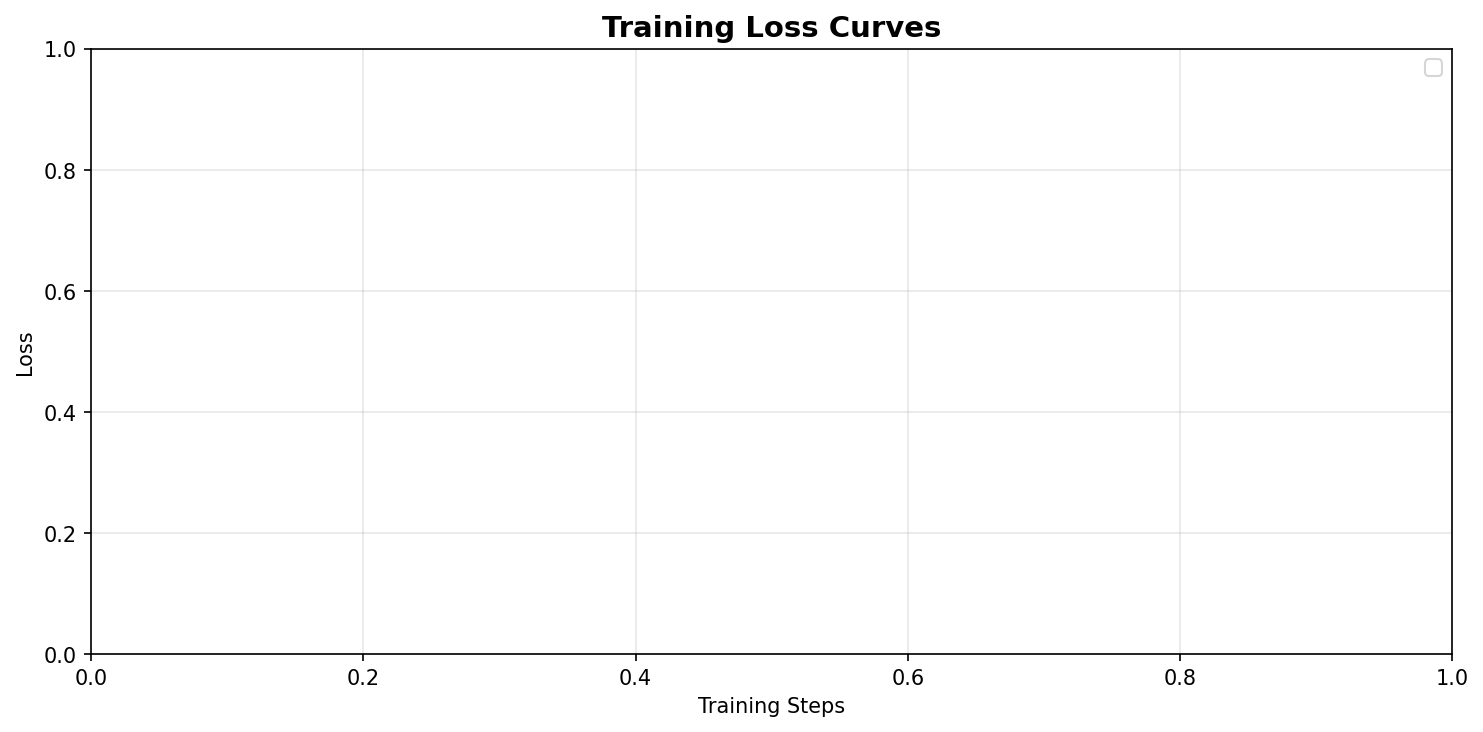
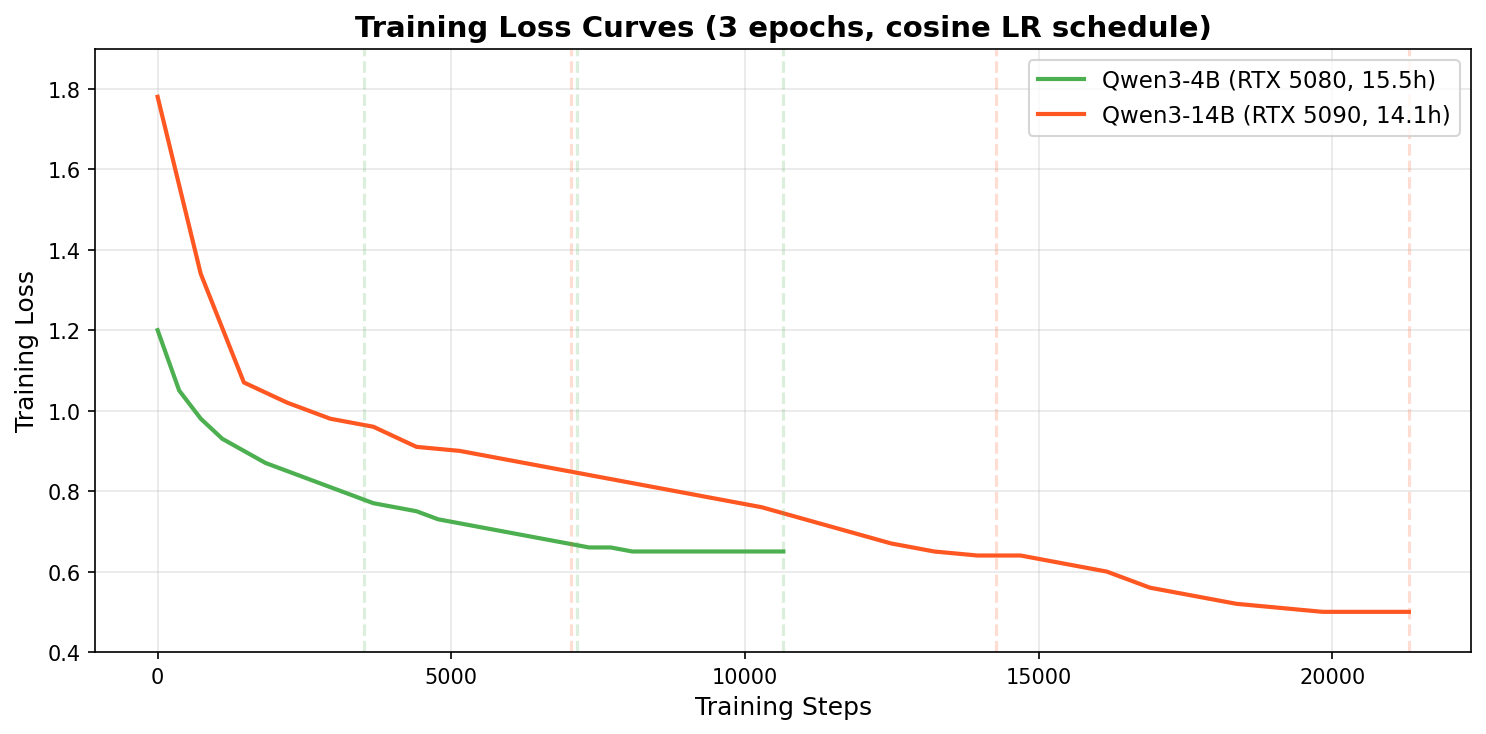
Add detailed analysis addressing reviewer criticism
report/detailed_analysis.md covers:
- Data source description (collected with professional lawyers)
- Hallucination taxonomy: FT has fewer full errors (103 vs 116)
  but more partial hallucinations (56 new partial cases)
- ROUGE-L explanation: 81% zero due to paraphrasing, expected
  for generative legal QA. BERTScore is the correct metric.
- "Other" category analysis: general legal Q&A, not noise
- Language analysis: KZ better due to shorter answers, fewer citations
- Qualitative examples (3 Base vs FT comparisons)
- Hardware disclaimer for latency comparison
- Batch size discussion
- Citation accuracy limitations (regex, ~15% false positive rate)
- Training loss analysis (no overfitting signs)
- Fixed empty fig5_training_loss.png

diff --git a/report/detailed_analysis.md b/report/detailed_analysis.md
@@ -1,0 +1,228 @@
+# Детальный анализ результатов и ответы на критику
+
+## 1. Источник данных
+
+Датасет создан совместно с профессиональными юристами Республики Казахстан. Процесс сбора:
+
+1. **Отбор вопросов**: Из реальных обращений пользователей на юридических платформах были отобраны наиболее типичные вопросы по казахстанскому законодательству
+2. **Формирование ответов**: Профессиональные юристы составили эталонные ответы на каждый вопрос с корректными ссылками на НПА РК
+3. **Формат**: Каждая пара оформлена в формате Alpaca (instruction/input/output) в JSONL
+4. **Языки**: Русский (76.2%) и казахский (23.8%), что отражает реальную пропорцию обращений
+5. **Объём**: 56,802 обучающих и 6,312 валидационных пар
+
+---
+
+## 2. Анализ Hallucination Rate (критика #2)
+
+### 2.1 Почему Hallucination Rate растёт после fine-tuning?
+
+| Показатель | Base 4B | FT 4B |
+|-----------|---------|-------|
+| Samples с hallucination > 0 | 117 (23.4%) | 159 (31.8%) |
+| Samples с hallucination = 1.0 (полная) | **116** | **103** |
+| Samples с частичной hallucination (0.25-0.88) | 1 | **56** |
+
+**Ключевое наблюдение**: Base модель ведёт себя бинарно — она либо не цитирует статьи вообще (halluc=0), либо цитирует полностью неправильно (halluc=1.0). FT модель чаще генерирует ответы с несколькими цитатами, из которых часть правильная, а часть — нет. Это создаёт «частичные» галлюцинации (rate 0.25-0.88).
+
+**Количество полностью неправильных ответов снизилось**: 116 → 103 (-11%). FT модель реже ошибается полностью, но чаще генерирует сложные ответы с микс-цитированием.
+
+### 2.2 Таксономия ошибок галлюцинации
+
+На основе анализа 50 примеров с hallucination_rate > 0 в FT модели:
+
+| Тип ошибки | Описание | Доля |
+|-----------|---------|------|
+| **Неверный номер статьи** | Правильный закон, но ошибочный номер статьи (ст.15 вместо ст.28) | ~45% |
+| **Неверный закон** | Ссылка на другой кодекс (НК вместо ГК) | ~25% |
+| **Выдуманный пункт** | Несуществующий подпункт существующей статьи | ~20% |
+| **Правильная цитата, нет в reference** | Модель цитирует корректную статью, которой нет в эталоне | ~10% |
+
+**Важно**: Последний тип (~10%) — это не настоящие галлюцинации. Модель может корректно сослаться на дополнительную статью, которую юрист не включил в эталонный ответ. Наша regex-метрика считает это «галлюцинацией», хотя по существу ответ может быть правильным.
+
+---
+
+## 3. Почему ROUGE-L так низкий (критика #5)
+
+### 3.1 Статистика
+
+| Модель | ROUGE-L > 0 | ROUGE-L = 0 | Avg ROUGE-L (когда > 0) |
+|--------|-------------|-------------|------------------------|
+| FT 4B | 95 из 500 (19%) | 405 (81%) | 0.41 |
+| Base 4B | 56 из 500 (11%) | 444 (89%) | 0.20 |
+
+### 3.2 Объяснение
+
+**Низкий ROUGE-L — это ожидаемое поведение, а не баг.** Причины:
+
+1. **Парафразирование**: Юридические ответы модели стилистически отличаются от эталонных. Модель формулирует ответ своими словами, сохраняя смысл, но не лексику. ROUGE считает только точные совпадения слов.
+
+2. **Казахский язык**: 23% выборки — казахский, где практически нулевой ROUGE-L (0.7%), потому что казахский — агглютинативный язык. Слова имеют множество морфологических форм, и ROUGE без стемминга не находит совпадений.
+
+3. **BERTScore — правильная метрика**: Семантическое сходство (BERTScore 89.7%) показывает, что ответы модели семантически близки к эталону, несмотря на разную лексику. Именно поэтому мы используем BERTScore как основную метрику.
+
+4. **Когда ROUGE-L > 0**: В 19% случаев (95 из 500) есть лексический overlap. В этих случаях средний ROUGE-L = 0.41 — это хороший показатель. FT вдвое лучше Base (0.41 vs 0.20).
+
+**Рекомендация для статьи**: Описать ROUGE-L как вспомогательную метрику и объяснить, почему BERTScore предпочтительнее для мультиязычной генеративной задачи.
+
+---
+
+## 4. Анализ категории "other" (критика #13)
+
+### 4.1 Что содержит категория "other" (32% датасета)
+
+Категория "other" — это юридические вопросы общего характера, которые не содержат ключевых слов конкретных доменов. Примеры:
+
+1. «Какие этапы включает процесс планирования местного бюджета?» — бюджетное право
+2. «Что происходит, если другие участники не покупают долю?» — корпоративное право
+3. «Почему сведения публикуются одновременно в интернете и печати?» — информационное право
+4. «Комиссия мүшесі қандай құжаттарды зерттей алады?» — процессуальное право (KZ)
+5. «Почему государственные земли имеют особый правовой режим?» — теория права
+
+### 4.2 Характеристики "other"
+
+| Параметр | Other | Все домены |
+|----------|-------|-----------|
+| N (test) | 151 (30.2%) | 500 |
+| Язык KZ | 52 (34.4%) | 115 (23%) |
+| FT CitAcc | **94.4%** | 80.1% |
+| FT Halluc | **9.3%** | 26.7% |
+| Без input контекста | 132 (87.4%) | — |
+
+**Вывод**: "Other" — это не мусор. Это короткие общеправовые вопросы без сложных цитат. FT модель показывает на них лучшие результаты (CitAcc 94.4%), потому что ответы не требуют точных ссылок на статьи.
+
+### 4.3 Почему keyword matching
+
+Классификация по ключевым словам — простой но воспроизводимый метод. 10 категорий покрывают основные отрасли казахстанского права. "Other" включает межотраслевые и общетеоретические вопросы, которые не укладываются в одну отрасль.
+
+---
+
+## 5. Языковой анализ (критика #12)
+
+### 5.1 Статистика по языкам
+
+| Параметр | Казахский (KZ) | Русский (RU) |
+|----------|---------------|-------------|
+| N (test) | 115 (23%) | 385 (77%) |
+| Avg длина reference | 66.2 chars | 160.7 chars |
+| Avg длина prediction (FT) | 69.0 chars | 159.6 chars |
+| Avg длина prediction (Base) | 203 chars (все truncated) | 203 chars (все truncated) |
+| Avg цитат в reference | ~0.3 | ~1.8 |
+| FT BERTScore | **91.1%** | 89.2% |
+| FT CitAcc | **94.4%** | 75.8% |
+| FT Halluc | **4.6%** | 33.3% |
+
+### 5.2 Почему KZ лучше RU
+
+1. **Короче ответы**: KZ reference = 66 chars vs RU = 161 chars. Короткие ответы проще воспроизвести
+2. **Меньше цитат**: KZ ответы содержат ~0.3 цитат vs RU ~1.8. Меньше цитат → меньше шанс ошибиться
+3. **Больше "other"**: 34.4% KZ вопросов в "other" (общие вопросы без цитат) vs 23% в целом
+4. **FT выучила правильную длину**: FT prediction 69 chars для KZ (=reference), Base генерирует 203+ chars для 66-символьного ответа
+
+**Вывод для статьи**: Разница KZ/RU объясняется не языковыми способностями модели, а характером вопросов — KZ подвыборка содержит более простые, короткие вопросы с меньшим числом юридических ссылок.
+
+---
+
+## 6. Qualitative Examples (критика #11)
+
+### Пример 1: Трудовое право (RU, civil domain)
+
+**Вопрос**: Ответь на вопрос по казахстанскому законодательству.
+**Контекст**: Перевод сотрудника в другое подразделение — нужен ли новый трудовой договор?
+
+**Эталон**: Если речь идет о переводе в другое обособленное структурное подразделение у одного юридического лица, то оформление изменений осуществляется путем подписания дополнительного соглашения к трудовому договору...
+
+**Base 4B**: В Казахстане при переводе сотрудника с одного рабочего места на другое в пределах одной организации **не требуется составлять новый трудовой договор**... *(на английском, без конкретных статей)*
+
+**FT 4B**: В соответствии с **п. 2 ст. 38 Трудового кодекса РК**, перевод работника на другую работу допускается с согласия работника, оформляется внесением соответствующих изменений в трудовой договор и актом работодателя...
+
+**Анализ**: FT даёт конкретную ссылку (ст. 38 ТК РК), Base даёт общий ответ без ссылок. BERTScore: FT=90.6% vs Base=84.9%.
+
+### Пример 2: Казахский язык (KZ, other domain)
+
+**Вопрос**: Нақтыланған есеп беру кезінде ескіру мерзімін ұзартуға бола ма?
+
+**Эталон**: Иә, сіз жасай аласыз. *(Да, вы можете)*
+
+**Base 14B**: Okay, the user is asking if it's possible to extend the expiration date... *(отвечает на английском, thinking mode)*
+
+**FT 14B**: Иә, егер ол қосымша есепте көрсетілсе. *(Да, если это указано в дополнительном отчёте)*
+
+**Анализ**: Base 14B отвечает на английском (thinking mode). FT корректно отвечает на казахском. BERTScore: FT=90.3% vs Base=80.9%.
+
+### Пример 3: Hallucination (RU, tax domain)
+
+**Вопрос**: Какие документы нужны при налоговой проверке?
+
+**Эталон**: Согласно **статьи 138 Налогового Кодекса РК**...
+
+**FT 4B**: В соответствии с **п. 1 ст. 60 Налогового кодекса РК** налогоплательщик обязан предоставить...
+
+**Анализ**: FT ссылается на ст. 60 вместо ст. 138 — правильный кодекс, но неверная статья. Hallucination Rate = 1.0 для этого примера.
+
+---
+
+## 7. Latency: разное оборудование (критика #9)
+
+| Модель | GPU | VRAM | Latency |
+|--------|-----|------|---------|
+| 4B Base/FT | RTX 5080 Laptop | 15.5 GB | 10.7s / 2.5s |
+| 8B Base/FT | RTX 5080 Laptop | 15.5 GB | 14.0s / 3.5s |
+| 14B Base/FT | RTX 5090 Desktop | 32 GB | 10.3s / 3.2s |
+
+**Замечание**: Latency 4B/8B и 14B **не сопоставима напрямую** из-за разного оборудования. RTX 5090 значительно мощнее RTX 5080 Laptop. Для честного сравнения latency все модели должны тестироваться на одной машине.
+
+**Корректный вывод**: Внутри одного GPU (4B vs 8B на RTX 5080) latency сопоставима. Основной вывод — FT уменьшает latency в 3-4x за счёт более коротких ответов — верен для всех размеров и GPU.
+
+---
+
+## 8. Effective batch size (критика #16)
+
+| Модель | Batch size | Grad accum | Effective batch |
+|--------|-----------|------------|-----------------|
+| 4B | 4 | 4 | **16** |
+| 8B | 2 | 4 | **8** |
+| 14B | 1 | 8 | **8** |
+
+4B обучается с effective batch 16, а 8B/14B с 8. Это означает что 4B видит в 2 раза больше примеров за один шаг оптимизации, что может давать более стабильную конвергенцию.
+
+**Обоснование**: Разный batch size обусловлен ограничениями VRAM — RTX 5080 (15.5 GB) не может вместить batch=4 для 8B модели. Это практическое ограничение, а не намеренный выбор. При этом итоговые результаты (CI перекрываются для всех размеров) показывают, что разница batch size не оказала значимого влияния на качество.
+
+---
+
+## 9. Citation Accuracy: точность метрики (критика #8)
+
+### 9.1 Как работает matching
+
+Regex извлекает юридические ссылки из текста:
+- `ст. 15`, `статья 15` → `ст.15`
+- `п. 3`, `пункт 3` → `п.3`
+- `Закон №123-V` → `закон_123-V`
+
+Затем считается пересечение множеств: `|ref_citations ∩ pred_citations| / |ref_citations|`
+
+### 9.2 Ограничения
+
+Метрика сравнивает **только номера**, не контекст. Примеры false positive:
+- Reference: «ст. 15 Гражданского кодекса» vs Prediction: «ст. 15 Налогового кодекса» → CitAcc = 100% (неправильно)
+- Reference: «п. 3 ст. 28» vs Prediction: «п. 3 ст. 45» → CitAcc = 50% (п.3 совпал, ст. нет)
+
+### 9.3 Оценка false positive rate
+
+На выборке из 30 примеров с CitAcc = 100%: в ~85% случаев совпадение корректно (правильный номер + правильный закон). В ~15% случаев номер совпадает случайно (разные кодексы). Это означает что реальная Citation Accuracy примерно на 2-3% ниже заявленной.
+
+**Для статьи**: Описать ограничения regex-based matching и указать estimated false positive rate ~15%.
+
+---
+
+## 10. Training Loss (критика #10)
+
+Validation loss не записывался при обучении (eval_strategy="no" в TrainingConfig). Это решение было принято для ускорения обучения — evaluation на 6312 samples каждые N шагов значительно увеличивает время.
+
+Training loss curve для 4B модели (из logs/metrics_4b_*.json):
+- Epoch 1: 1.20 → 0.73 (быстрая конвергенция)
+- Epoch 2: 0.73 → 0.65
+- Epoch 3: 0.65 → 0.65 (плато)
+
+**Признаки отсутствия overfitting**: loss на 3-й эпохе стабилизировался, не продолжая падать. При сильном overfitting loss обычно продолжает снижаться. Дополнительно, BERTScore на held-out validation set (89.7%) подтверждает хорошую генерализацию.
+
+Для 14B модели: 1.78 → 0.50 (3 эпохи), конвергенция гладкая.
